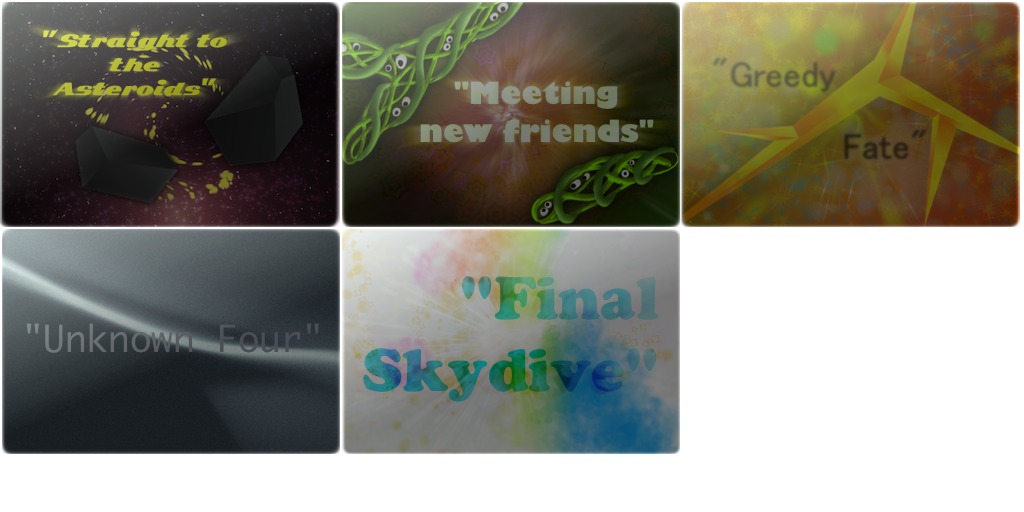
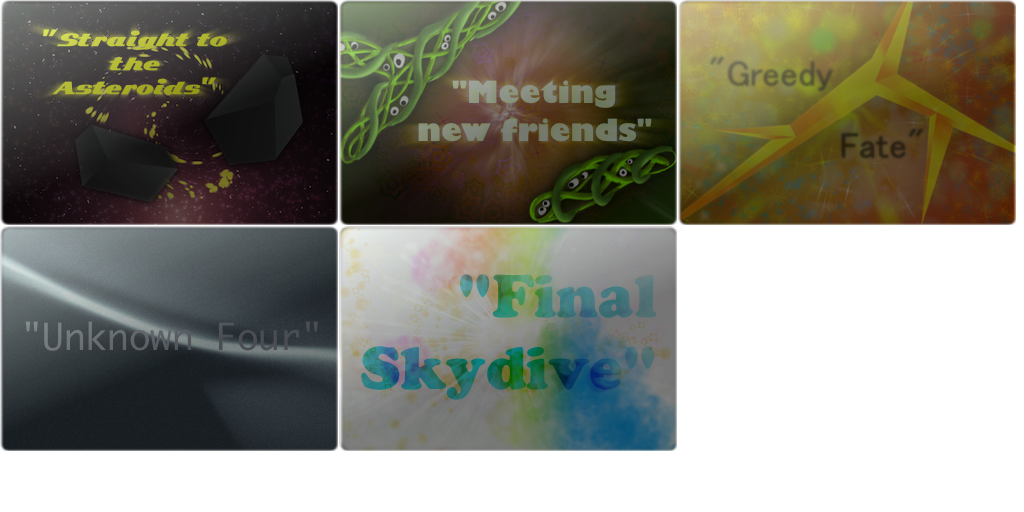
greed: slightly adjusted chapter panels

diff --git a/dgreed/apps/greed/menus.c b/dgreed/apps/greed/menus.c
@@ -36,7 +36,6 @@ static RectF panel_source = {0.0f, 0.0f, 338.0f, 225.0f};
 static RectF title_source = {362.0f, 0.0f, 362.0f + 70.0f, 256.0f};
 static RectF separator_source = {0.0f, 246.0f, 322.0f, 246.0f + 8.0f};
 static RectF arena_list_panel_source[6];
-static RectF chapter_list_panel_source[6];
 
 static Color menu_text_color = COLOR_RGBA(214, 214, 215, 255);
 static Color menu_sel_text_color = COLOR_RGBA(166, 166, 168, 255);
@@ -62,12 +61,7 @@ void menus_init(void) {
 		float fx = 1.0f + (float)(i % 3) * 339.0f;
 		float fy = 1.0f + (float)(i / 3) * 226.0f;
 		arena_list_panel_source[i] = rectf(fx, fy, fx + 338.0f, fy + 225.0f);
-		
-		fx = 1.0f + (float)(i % 3) * 340.0f;
-		fy = 1.0f + (float)(i / 3) * 227.0f;
-		chapter_list_panel_source[i] = rectf(fx, fy, fx + 338.0f, fy + 225.0f);
-	}
-
+	}	
 	menu_state = menu_transition = MENU_MAIN;
 }
 
@@ -456,7 +450,7 @@ void _render_chapters(float t) {
 	}
 
 	if(_render_slidemenu(t, &chp_camera_lookat_x, &chp_old_camera_lookat_x,
-		MENU_MAIN, text, chapters_atlas, chapter_list_panel_source, MAX_CHAPTERS)) {
+		MENU_MAIN, text, chapters_atlas, arena_list_panel_source, MAX_CHAPTERS)) {
 
 		selected_chapter = (int)(chp_camera_lookat_x / -x_spacing + 0.5f);
 		selected_chapter = MIN(selected_chapter, MAX_CHAPTERS-1);
